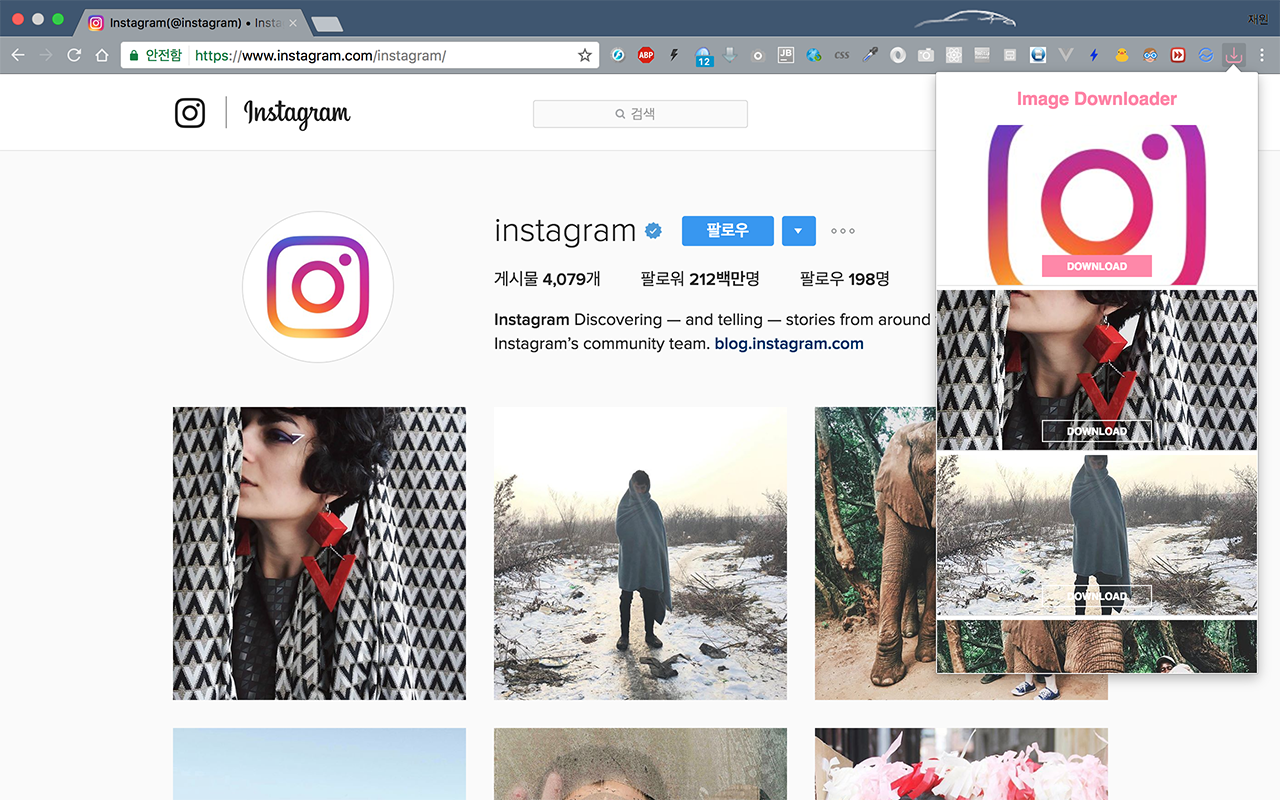
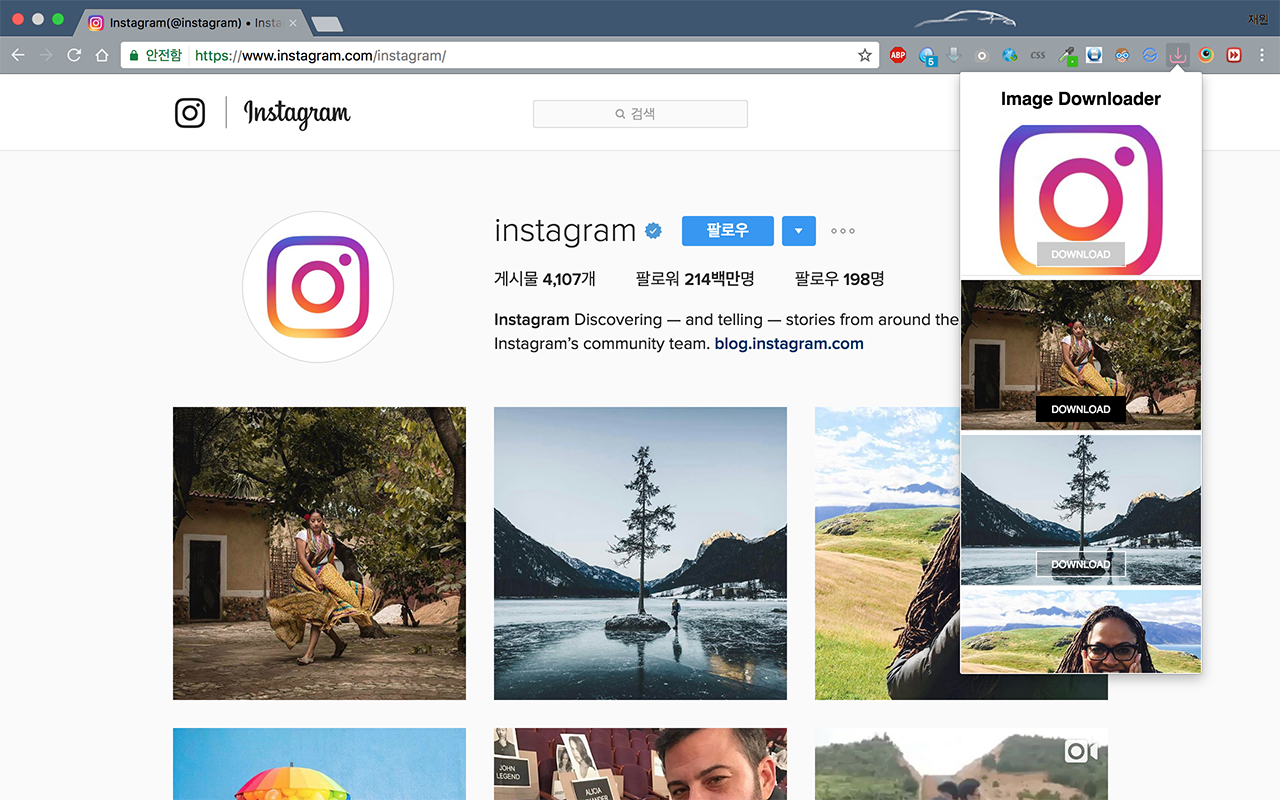
change ui

diff --git a/extension/popup.html b/extension/popup.html
@@ -9,7 +9,7 @@
     body {
       margin: 0;
       padding: 0;
-      width: 320px;
+      width: 240px;
       height: 600px;
       max-height: 600px;
       background-color: transparent;
@@ -20,7 +20,7 @@
       margin: 0 0 16px;
     }
     h2 {
-      color: #fe88a9;
+      color: #000;
       text-align: center;
     }
     img {
@@ -47,7 +47,7 @@
       float: left;
       margin-bottom: 4px;
       width: 100%;
-      height: 160px;
+      height: 150px;
       border-bottom: 1px solid #e5e5e5;
       text-align: center;
       overflow: hidden;
@@ -59,7 +59,7 @@
       right: 0;
       left: 0;
       margin: auto;
-      width: 100%;
+      max-width: 100%;
       height: auto;
       border: none;
       outline: none;
@@ -68,9 +68,11 @@
     .button {
       display: inline-block;
       padding: 0 4px;
-      height: 20px;
-      line-height: 20px;
+      height: 2.4em;
+      line-height: 2.4em;
       color: #fff;
+      background-color: #000;
+      background-color: rgba(0, 0, 0, .2);
       font-size: 10px;
       border: 1px solid #fff;
       outline: none;
@@ -79,8 +81,8 @@
     }
     .button:hover {
       color: #fff;
-      background-color: #fe88a9;
-      border-color: #fe88a9;
+      background-color: #000;
+      border-color: #000;
     }
     .download-button {
       position: absolute;
@@ -88,12 +90,10 @@
       right: 0;
       left: 0;
       margin: auto;
-      width: 10em;
-      font-weight: 700;
+      width: 8em;
     }
     .no-images {
       font-size: 14px;
-      font-weight: 700;
       text-align: center;
     }
     ::-webkit-scrollbar, ::-webkit-scrollbar-button:start:decrement, ::-webkit-scrollbar-button:end:increment, ::-webkit-scrollbar-track, ::-webkit-scrollbar-thumb { display: none; }
